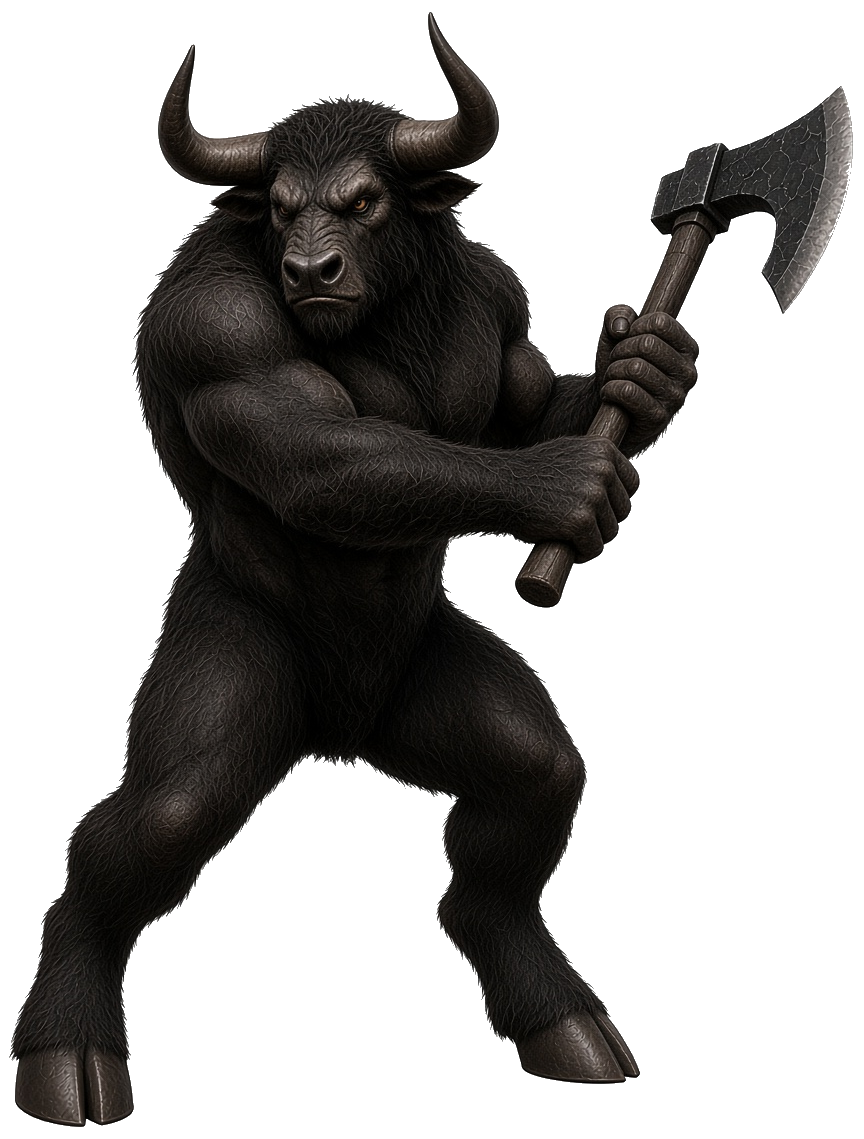
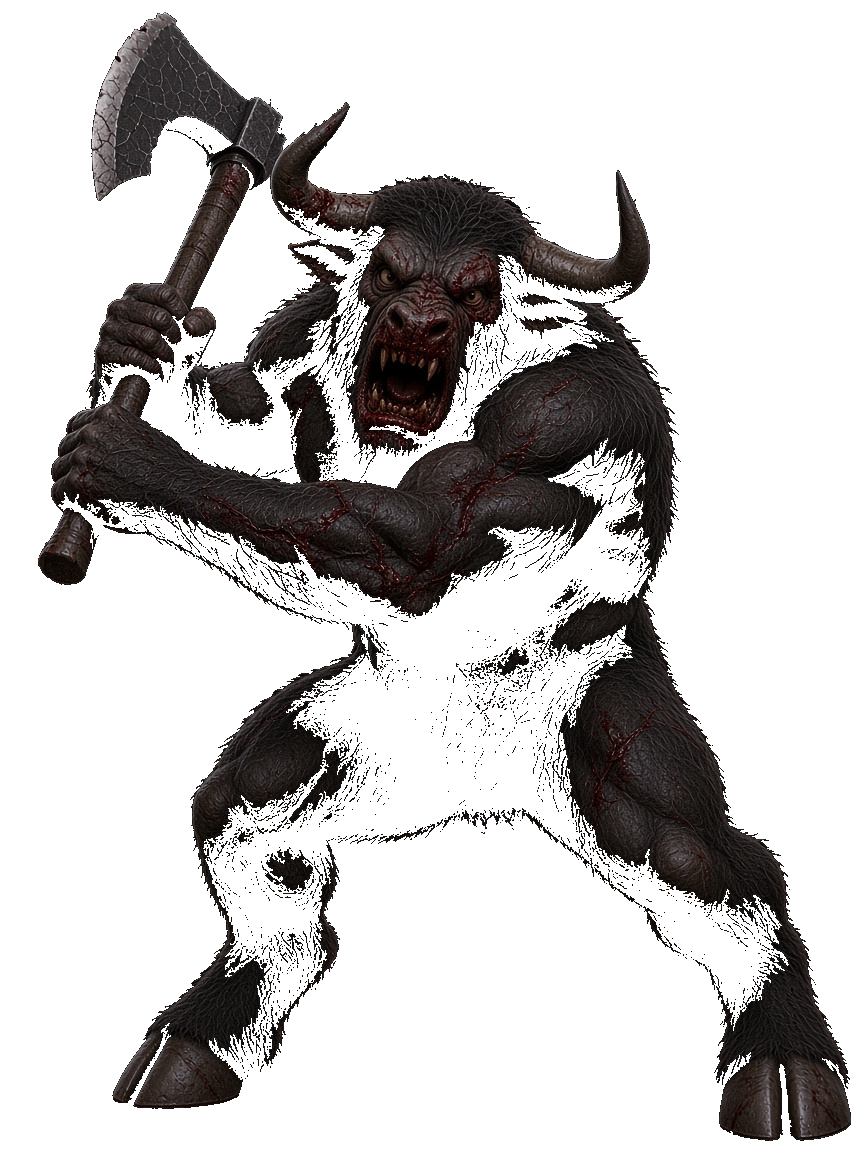
Replace the minotaur with a fiercer roaring sprite (v5).

diff --git a/index.html b/index.html
@@ -1,4 +1,4 @@
-<!DOCTYPE html>
+<!DOCTYPE html>
 <html lang="ja">
 <head>
   <meta charset="UTF-8" />
@@ -7437,7 +7437,7 @@
       },
       {
         name: "ミノタウロス",
-        image: "enemy-minotaur.png?v=4",
+        image: "enemy-minotaur.png?v=5",
         tier: 3,
         rank: "強敵",
         hp: 50,
@@ -12104,7 +12104,7 @@
             <div class="ref-grid">
               ${sheetFig("enemy-slime.png?v=7", "スライム", "enemy-ref")}
               ${sheetFig("enemy-goblin.png?v=4", "ゴブリン", "enemy-ref")}
-              ${sheetFig("enemy-minotaur.png?v=4", "ミノタウロス", "enemy-ref")}
+              ${sheetFig("enemy-minotaur.png?v=5", "ミノタウロス", "enemy-ref")}
               ${sheetFig("enemy-dragon.png?v=3", "ちびドラゴン", "enemy-ref")}
               ${sheetFig("enemy-beggar.png?v=2", "物乞い", "enemy-ref")}
               ${sheetFig("enemy-hades.png?v=1", "ハデス", "enemy-ref")}
